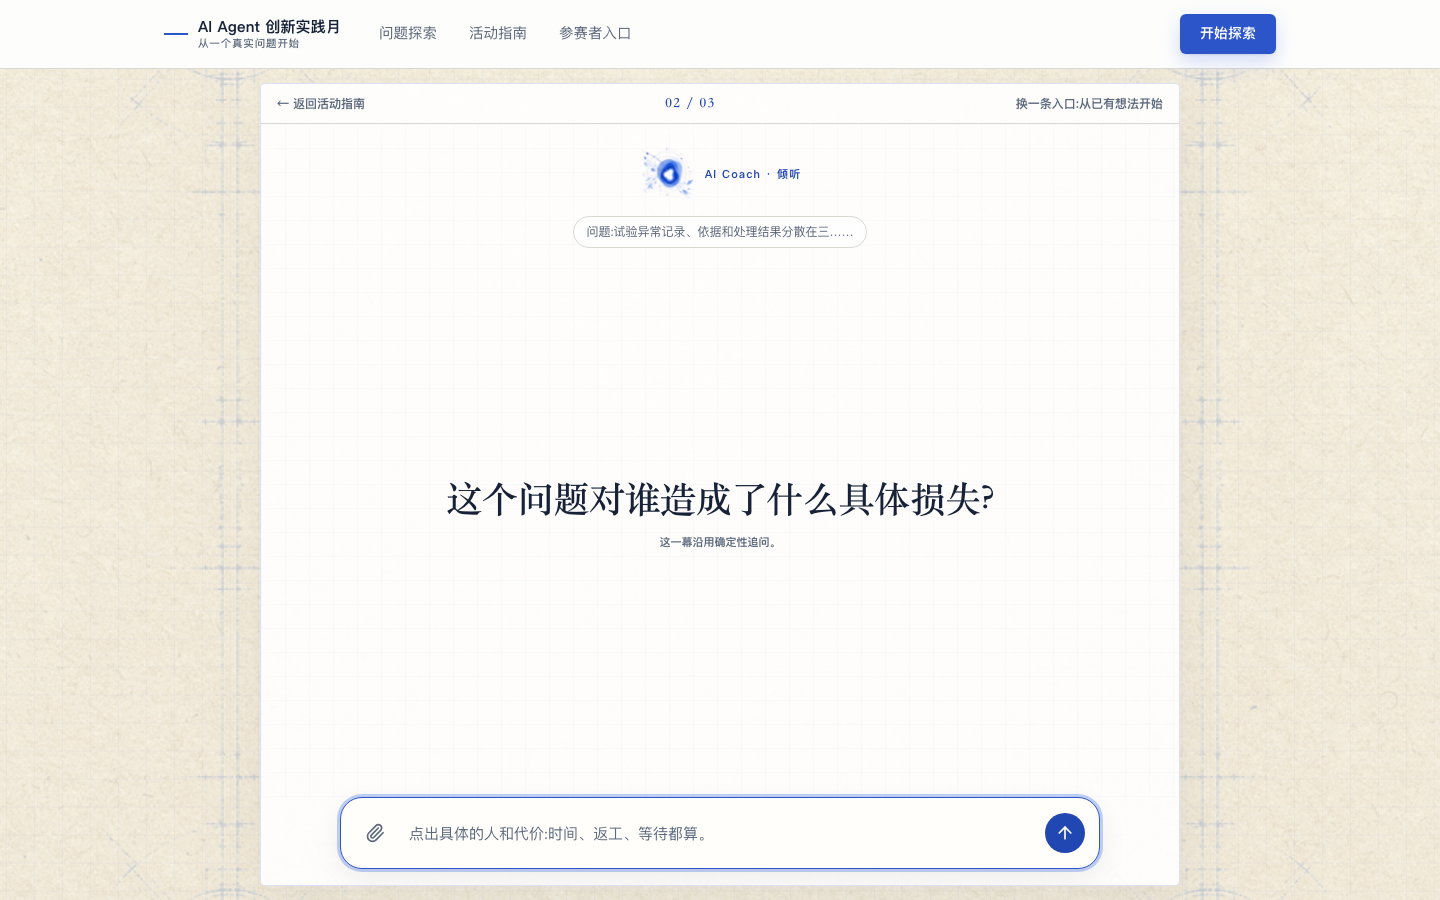
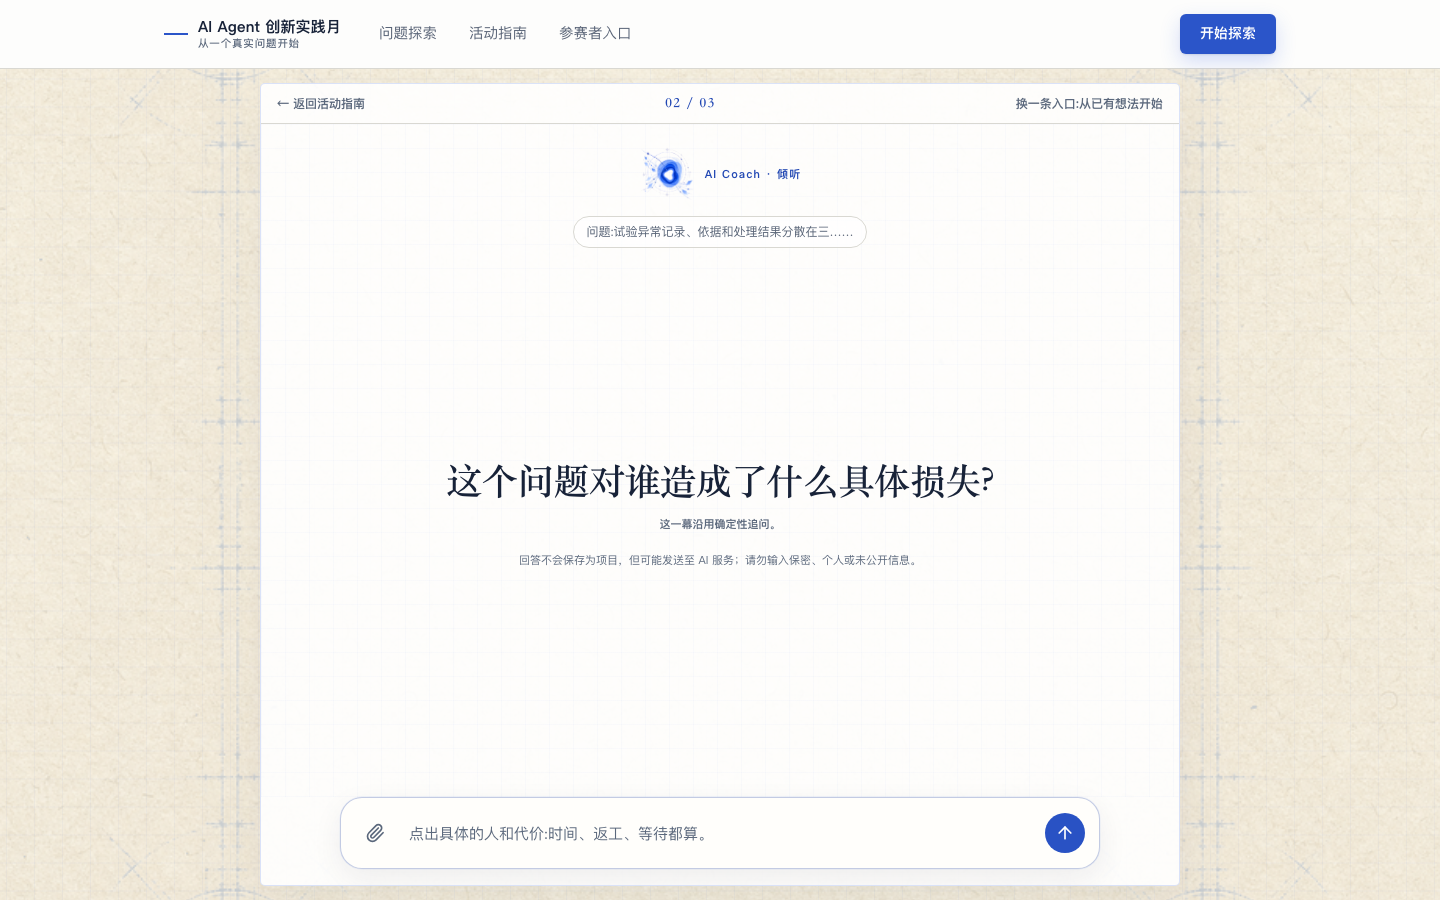
红队修复轮①:隐私前置披露
第1、2幕问题态常驻coachPrivacyNotice(仅这两幕提交外发AI服务),
第3幕与过渡期不渲染;取代F-d纯文本路径的披露缺失;persona断言按
新语义改写;计划§18。

diff --git a/tests/e2e/hub-coach-persona.spec.ts b/tests/e2e/hub-coach-persona.spec.ts
@@ -66,9 +66,13 @@ test.describe("状态 A:种子前的减法布局(桌面 1440×900)", () => {
     await expect(page.getByRole("button", { name: /添加文本附件/ })).toHaveCount(1);
     await expect(page.getByRole("button", { name: "提交这一问的回答" })).toHaveCount(1);
 
-    // B2 浮屿:常驻隐私/快捷键小字已删除;按需附件确认与 Chip 默认不出现
+    // B2 浮屿:旧常驻 composer 小字与附件 Chip/按需确认默认不出现;
+    // 隐私披露改为前置(§18):第1、2幕问题态常驻,先于输入告知外发事实
     await expect(page.locator(".coach-composer-note")).toHaveCount(0);
-    await expect(page.getByText(/请勿输入保密、个人或未公开信息/)).toHaveCount(0);
+    await expect(page.locator("[data-coach-privacy-note]")).toHaveCount(1);
+    await expect(page.locator("[data-coach-privacy-note]")).toHaveText(
+      "回答不会保存为项目，但可能发送至 AI 服务；请勿输入保密、个人或未公开信息。"
+    );
     await expect(page.locator(".coach-attachment-chip")).toHaveCount(0);
     await expect(page.locator("#coach-attachment-note")).toHaveCount(0);
 
@@ -82,6 +86,28 @@ test.describe("状态 A:种子前的减法布局(桌面 1440×900)", () => {
     await expect(page.getByRole("link", { name: /换一条入口/ })).toHaveCount(1);
 
     await page.screenshot({ path: `${SHOTS}/state-a-question-1440.png` });
+  });
+
+  test("隐私披露时序:第1、2幕问题态常驻,过渡期与第3幕不出现", async ({ page }) => {
+    await page.goto("/");
+    await expect(page.getByRole("heading", { name: QUESTIONS[0] })).toBeVisible();
+
+    // 第1幕问题态:披露在场(该幕提交将发送至 AI 服务)
+    await expect(page.locator("[data-coach-privacy-note]")).toHaveCount(1);
+
+    await submit(page, ANSWERS[0]);
+    // 过渡期:回答器折叠即过渡态标志,披露随之退场
+    await expect(page.locator("#coach-answer")).toHaveCount(0);
+    await expect(page.locator("[data-coach-privacy-note]")).toHaveCount(0);
+
+    // 第2幕问题态:该幕提交仍会外发,披露再次出现
+    await expect(page.getByRole("heading", { name: QUESTIONS[1] })).toBeVisible({ timeout: 10_000 });
+    await expect(page.locator("[data-coach-privacy-note]")).toHaveCount(1);
+
+    // 第3幕:回答只在本页凝结种子,不再外发,披露不出现
+    await submit(page, ANSWERS[1]);
+    await expect(page.getByRole("heading", { name: QUESTIONS[2] })).toBeVisible({ timeout: 10_000 });
+    await expect(page.locator("[data-coach-privacy-note]")).toHaveCount(0);
   });
 });
 

diff --git a/components/hub/coach-workspace-scene.tsx b/components/hub/coach-workspace-scene.tsx
@@ -40,6 +40,7 @@ export function CoachWorkspaceScene({
   attachment,
   attachmentError,
   attachmentNotice,
+  privacyNotice,
   attachmentEnabled,
   attachmentReading,
   providerStatus,
@@ -73,6 +74,8 @@ export function CoachWorkspaceScene({
   attachmentError: string | null;
   /** 按需隐私确认文案(仅选中附件时出现) */
   attachmentNotice: string;
+  /** 前置隐私披露:第1、2幕问题态常驻,告知回答将发送至 AI 服务 */
+  privacyNotice: string;
   /** 仅第一、二幕开放附件;第三幕只在客户端凝结种子,不渲染附件入口 */
   attachmentEnabled: boolean;
   /** 附件读取中:禁用附件/提交按钮,读取落定前不允许提交 */
@@ -211,6 +214,13 @@ export function CoachWorkspaceScene({
             {/* 断网 alert 已表达回退事实时,状态行不再重复同义文案 */}
             {providerStatus && !providerError && (
               <p className="coach-provider-status">{providerStatus}</p>
+            )}
+            {/* 隐私前置披露:第1、2幕的提交会发送至 AI 服务,告知必须先于输入,
+                不能等到三幕全部完成后的种子卡(修正 F-d 的时序倒置) */}
+            {attachmentEnabled && (
+              <p className="coach-privacy-note" data-coach-privacy-note>
+                {privacyNotice}
+              </p>
             )}
           </div>
         )}

diff --git a/components/hub/coach-flow.tsx b/components/hub/coach-flow.tsx
@@ -7,6 +7,7 @@ import { CoachWorkspaceScene, type CoachTransitionStep } from "./coach-workspace
 import { SeedCard } from "./seed-card";
 import {
   attachmentPrivacyNotice,
+  coachPrivacyNotice,
   seedCopy,
   type CoachAct,
   type CoachEntry,
@@ -431,6 +432,7 @@ export function CoachFlow({
             attachment={attachment}
             attachmentError={attachmentError}
             attachmentNotice={attachmentPrivacyNotice}
+            privacyNotice={coachPrivacyNotice}
             attachmentEnabled={state.actIndex < ACT_COUNT - 1}
             attachmentReading={attachmentReading}
             providerStatus={providerStatus}

diff --git a/styles/tokens.css b/styles/tokens.css
@@ -935,6 +935,12 @@
     font-size: 11px;
     font-weight: 700;
   }
+  /* 隐私前置披露:与状态行同级的安静单行,先于输入告知外发事实 */
+  .coach-privacy-note {
+    color: var(--text-tertiary);
+    font-size: 11px;
+    margin-top: 8px;
+  }
   /* Composer B2:单一横向紧凑浮屿(附件 / 输入 / 发送),
      暖白浮于会话面板底部;过渡期整个 form 不渲染,无禁用大输入框 */
   .coach-composer {

diff --git a/IMPLEMENTATION_PLAN.md b/IMPLEMENTATION_PLAN.md
@@ -481,3 +481,24 @@ npx playwright test                      # 含旧 full-flow 回归 + 新 hub.spe
 - `npm run build`：通过（含活动配置校验）。
 - 运行前确认 3000 端口空闲后 `LLM_MOCK_MODE=true npx playwright test`：通过，**75/75（56.2s）**（＋6：种子导出成功/失败 2 条、页面 meta 与 robots 4 条）。首轮 robots 用例真实捕获 app/robots.txt 与 public/robots.txt 冲突导致的 500，按 J4 修复后转绿。
 - 本轮未部署、未推送、未重启 3600 生产服务，未填入任何无正式来源的活动事实或 Logo。
+
+---
+
+## 18. 红队修复轮 ①：隐私前置披露（2026-08-18）
+
+用户按五轮序列授权（①→⑤）。本轮修复红队审查中两路独立命中的最接近红线缺陷：`realLlm=true` 下第 1、2 幕回答真实外发 GLM，而"可能发送至 AI 服务"的告知只出现在三幕全部完成后的种子卡——知情时序倒置，与 K3 任务书"状态 A 必要的隐私提示"冲突。
+
+### 18.1 实现决定（K 系）
+
+| # | 决定 | 理由 |
+| --- | --- | --- |
+| K1 | 披露置于会话区问题标题下方（`data-coach-privacy-note`），第 1、2 幕问题态常驻，第 3 幕与过渡期不渲染 | 第 3 幕回答只在本页凝结种子不外发——提示必须精确到"哪一幕会外发"，不制造过度警告；放在滚动区内对固定视口零几何风险（visual-direction e2e 验证通过） |
+| K2 | 复用 `coachPrivacyNotice` 单一事实源文案，不新写文案 | "可能发送"同时覆盖 live 与 fixture 两种模式，不撒谎也不过度吓阻 |
+| K3 | 明确取代 F-d 的"常驻小字删除"语义：附件按需确认（F-d）保留，纯文本前置披露回归 | F-d 的删除理由是"即将外发时诚实提示"，但纯文本同样外发却没有对应提示——红队判定为时序倒置；本轮把"即将外发"的诚实提示补齐到纯文本路径 |
+| K4 | persona spec 的 F-d 时代断言（"请勿输入保密"计数 0）按新语义改写，不削弱其余意图 | R13 先例：按新语义改写而非放宽；旧 composer-note 类、附件 Chip、按需确认默认不出现仍断言 0 |
+
+### 18.2 验收记录（2026-08-18）
+
+- `npm run lint`/`typecheck`：通过；`npm run test`：**20 files / 203 tests** 通过；`npm run build`：通过。
+- `LLM_MOCK_MODE=true npx playwright test`：**76/76（58.2s）**（＋1：隐私披露时序——第 1/2 幕问题态在场、过渡期退场、第 3 幕不出现）；persona 与 visual-direction 定向 15/15 通过（固定视口无溢出）。
+- 本轮未部署、未推送、未重启 3600 生产服务。
